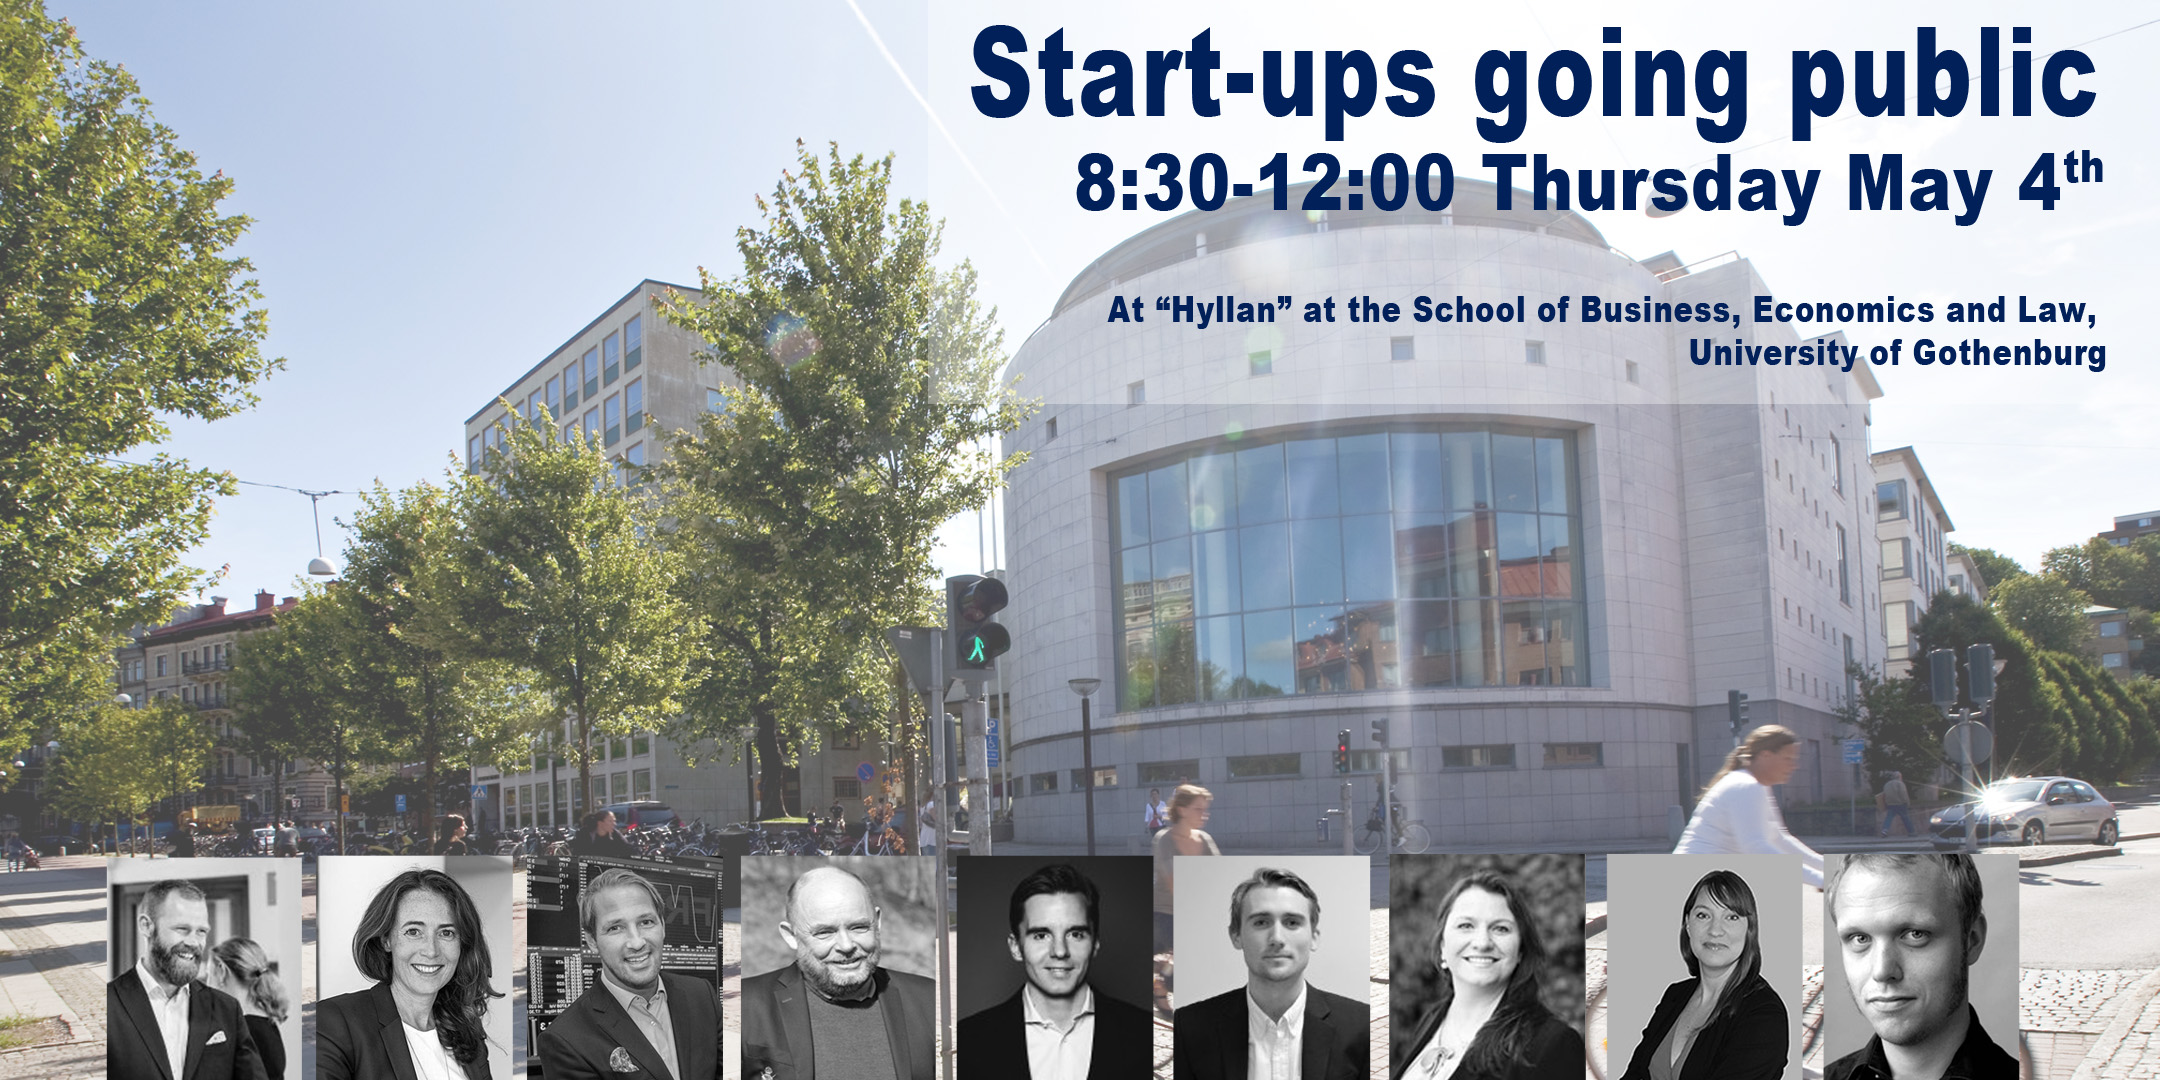
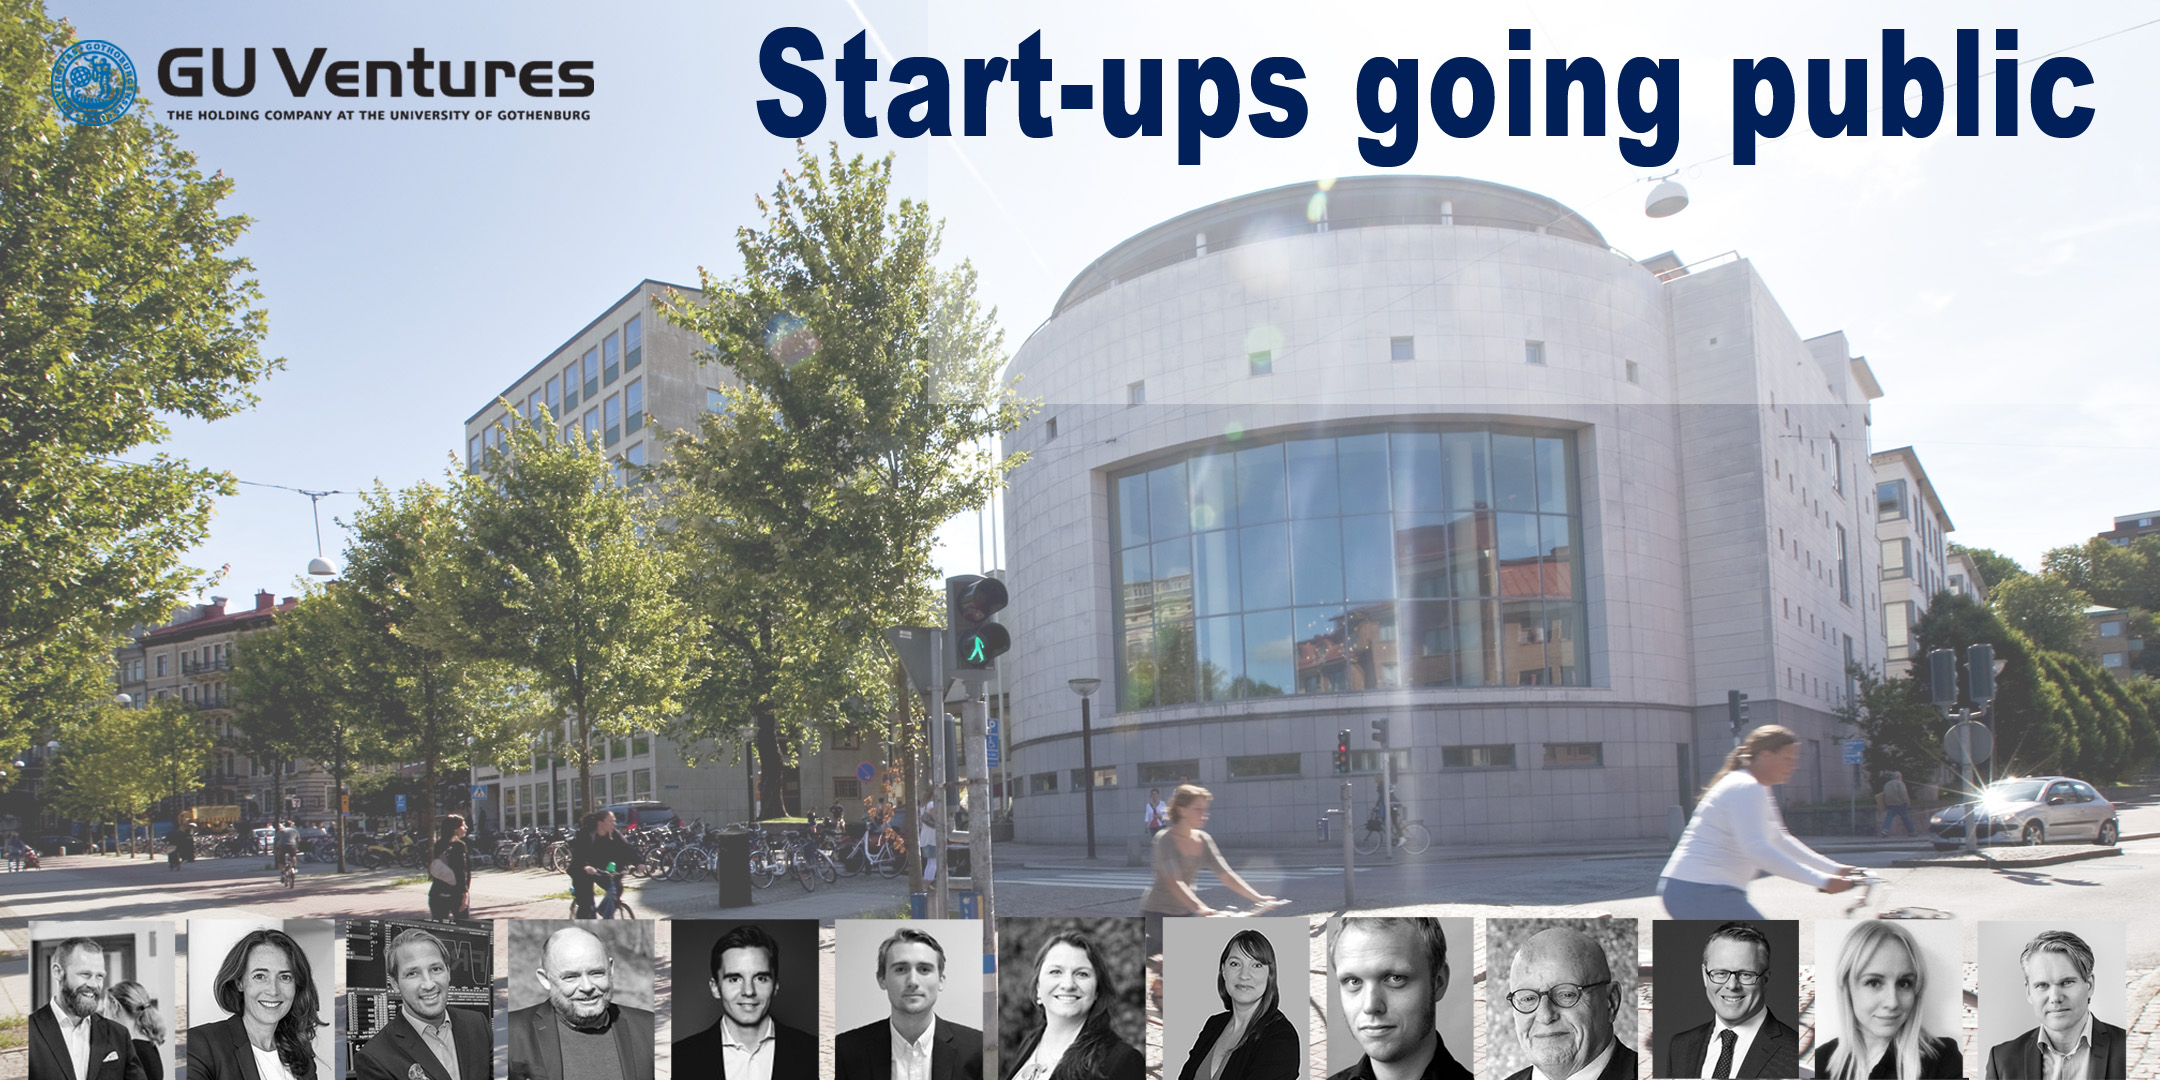
Updated the site with batch 4

diff --git a/index.html b/index.html
@@ -225,6 +225,13 @@
             </div>
 
             <div class="schedule-event-container">
+              <img class="schedule-event-image" src="img/2017/events/osfs_logo.png">
+              <h4 class="schedule-event-title">Failure Festival</h4>
+              <p class="schedule-event-info">Welcome to our FailureFestival, where we meet to share failures and celebrate them! Fail fast, fail now – join the FailureFestival!</p>
+              <a class="schedule-event-link button" href="#osfs">More information</a>
+            </div>
+
+            <div class="schedule-event-container">
               <img class="schedule-event-image" src="img/2017/events/more_events_white.png">
               <h4 class="schedule-event-title">Come back soon</h4>
               <p class="schedule-event-info">We haven't released all events yet! Join the Facebook event and we'll keep you posted!</p>
@@ -253,7 +260,7 @@
             <div class="schedule-event-container">
               <img class="schedule-event-image" src="img/2017/events/gu-ventures_logo.png">
               <h4 class="schedule-event-title">Start-ups going public</h4>
-              <p class="schedule-event-info">PLACEHOLDER</p>
+              <p class="schedule-event-info">GU Ventures and partners would like to invite all entrepreneurs, investors and all of you, who are interested in learning more about the IPO-process, to a half day event. There will be presentations from an impressive list of expert speakers from our partners, as well as listed companies sharing their stories.</p>
               <a class="schedule-event-link button reversed" href="#guventures">More information</a>
             </div>
 
@@ -308,7 +315,7 @@
             <div class="schedule-event-container">
               <img class="schedule-event-image" src="img/2017/events/gu-ventures_logo.png">
               <h4 class="schedule-event-title">Gothenburg’s dance with China</h4>
-              <p class="schedule-event-info">GU Ventures and partners warmly invites all entrepreneurs, investors and business executives who are interested in learning more about the Chinese market to a half day event, with expert speakers, that brings together companies with investors and organizations.</p>
+              <p class="schedule-event-info">GU Ventures and partners would like to invite all entrepreneurs, investors, business executives and all of you, who are interested in learning more about the Chinese market, to a half day event. There will be presentations from an impressive list of expert speakers from our partners, as well as the Swedish Embassy in Beijing, China Telecom, CEVT, Oboya, Bluetest and the fund Nordic Growth Technology Partners.</p>
               <a class="schedule-event-link button " href="#chinapreneurs" target="_blank">More information</a>
             </div>
 
@@ -614,7 +621,7 @@
               </div>
             </div>
             <div class="event-image">
-              <img src="img/2017/events/osfs_big.jpg" />
+              <img src="img/2017/events/osfs_big.jpeg" />
             </div>
           </div>
         </li>
@@ -645,7 +652,7 @@
           <div class="event-container">
             <div class="event-body">
               <div class="event-header">
-                <img src="img/2017/events/more_events_blue.png" />
+                <img src="img/2017/events/more_events_white.png" />
                 <h2>Come back soon!</h2>
               </div>
               <div class="event-info">
@@ -665,7 +672,7 @@
           <div class="event-container">
             <div class="event-body">
               <div class="event-header">
-                <img src="img/2017/events/foodventure_logo_white.png" />
+                <img src="img/2017/events/foodventure_logo.png" />
                 <h2>Food Venture &amp; Partnering Days</h2>
               </div>
               <div class="event-info">
@@ -690,12 +697,12 @@
                 <h2>Start-ups going public</h2>
               </div>
               <div class="event-info">
-                <p class="event-time">4 May, 17:30 - 20:00,</p>
-                <p class="event-venue"><a href="https://www.google.com/maps/place/Bergsj%C3%B6skolan/@57.7564373,12.067196,17z/data=!3m1!4b1!4m5!3m4!1s0x464ff5cdfefabd73:0x2a1d8958fb0ce238!8m2!3d57.7564345!4d12.0693847" target="_blank">PLATS</a></p>
+                <p class="event-time">4 May, 08:30 - 12:00,</p>
+                <p class="event-venue"><a href="https://www.google.com/maps/place/57%C2%B041'47.7%22N+11%C2%B057'44.2%22E/@57.696575,11.9617188,19z/data=!3m1!4b1!4m5!3m4!1s0x0:0x0!8m2!3d57.696575!4d11.962266" target="_blank">“Hyllan” at the School of Business, Economics and Law, University of Gothenburg</a></p>
                 <p class="event-organizer">Organizer: GU Ventures</p>
-                <p class="info">TEXT</p>
+                <p class="info">GU Ventures and partners would like to invite entrepreneurs, investors and all of you, who are interested in learning more about the IPO-process, to a half day event.<br /><br />The event will be opened by Nasdaq ringing the bell in the morning and opening their Stock Exchange for the day from the event and it will be closed before lunch by Marie Wall, the Swedish Government's Start-up Director.<br /><br />There will be presentations from an impressive list of expert speakers from our partners and some listed companies sharing their stories, such as CELLINK. The event also aims to bring together companies with investors and organizations.<br /><br /><strong>Our event partners are:</strong> Nasdaq, AktieTorget, Aktiespararna, Avanza, Finwire, Pegroco Invest, Chalmers Ventures, Mannheimer Swartling, Sedermera, Göteborg Corporate Finance, Redeye, Partner Fondkommission, ALMI Företagspartner Väst and ALMI Invest, IDA-business angels, , Connect, Venture Cup, Sahlgrenska Science Park, AstraZeneca Bioventurehub, G-lab21, the School of Business, Economics and Law at the University of Gothenburg, as well as Västra Götaland region.</p>
                 
-                <a class="button reversed" href="LINK" target="_blank">Join now!</a>
+                <a class="button reversed" href="http://ventures.gu.se/Aktuellt/Nyheter/fulltext//gu-ventures--start-ups-going-public.cid1436466" target="_blank">Join now!</a>
               </div>
             </div>
             <div class="event-image">
@@ -799,8 +806,8 @@
               <div class="event-info">
                 <p class="event-time">5 May, 08:30 - 12:00,</p>
                 <p class="event-venue"><a href="https://www.google.se/maps/place/57%C2%B041'47.5%22N+11%C2%B057'44.4%22E/@57.6965164,11.9612257,18z/data=!3m1!4b1!4m5!3m4!1s0x0:0x0!8m2!3d57.696515!4d11.96232" target="_blank">“Hyllan” at the School of Business, Economics and Law, University of Gothenburg.</a></p>
-                <p class="event-organizer">Organizer: GU Ventures, Swedish Chinese Association, Chinapreneurs, “Gothenburg mingle” by Egestam, Business Region Gothenburg, Business Sweden, European Enterprise Network, and AstraZeneca Bioventurehub.</p>
-                <p class="info">GU Ventures and partners Swedish Chinese Association, Chinapreneurs, “Gothenburg mingle” by Egestam, Business Region Gothenburg, Business Sweden, European Enterprise Network and AstraZeneca Bioventurehub, would like to invite all entrepreneurs, investors and business executives who are interested in learning more about the Chinese market to a half day event. There will be presentations from an impressive list of expert speakers from all partners, as well as the Swedish Embassy in Beijing, China Telecom, CEVT, Oboya and Nordic Growth Technology Partners. The event aims to bring together Swedish and Chinese companies with investors, industry and organizations.</p>
+                <p class="event-organizer">Organizer: GU Ventures</p>
+                <p class="info">GU Ventures and partners would like to invite all entrepreneurs, investors, business executives and all of you, who are interested in learning more about the Chinese market, to a half day event.<br /><br />There will be presentations from an impressive list of expert speakers from our partners, as well as the Swedish Embassy in Beijing, China Telecom, CEVT, GU School of Executive Education, Oboya, Bluetest and the fund Nordic Growth Technogy Partners. The event also aims to bring together Swedish and Chinese companies with investors, industry and organizations.<br /><br /><strong>Our event partners are:</strong> Swedish Chinese Association, Chinapreneurs, “Gothenburg mingle” by Egestam, Business Region Gothenburg, Business Sweden, European Enterprise Network, Sahlgrenska Science Park, AstraZeneca Bioventurehub, the School of Business, Economics and Law at the University of Gothenburg, as well as Västra Götaland region.</p>
                 <a class="button reversed not-active" href="http://ventures.gu.se/Aktuellt/Nyheter/fulltext//gu-ventures--welcome-to-gothenburg-s-dance-with-china.cid1436219" target="_blank">Signup now!</a>
               </div>
             </div>
@@ -835,7 +842,7 @@
           <div class="event-container">
             <div class="event-body">
               <div class="event-header">
-                <img src="img/2017/events/janssonnorin_logo.png" />
+                <img src="img/2017/events/janssonnorin_logo_white.png" />
                 <h2>How To create 100 Million SEK of revenue in two years</h2>
               </div>
               <div class="event-info">
